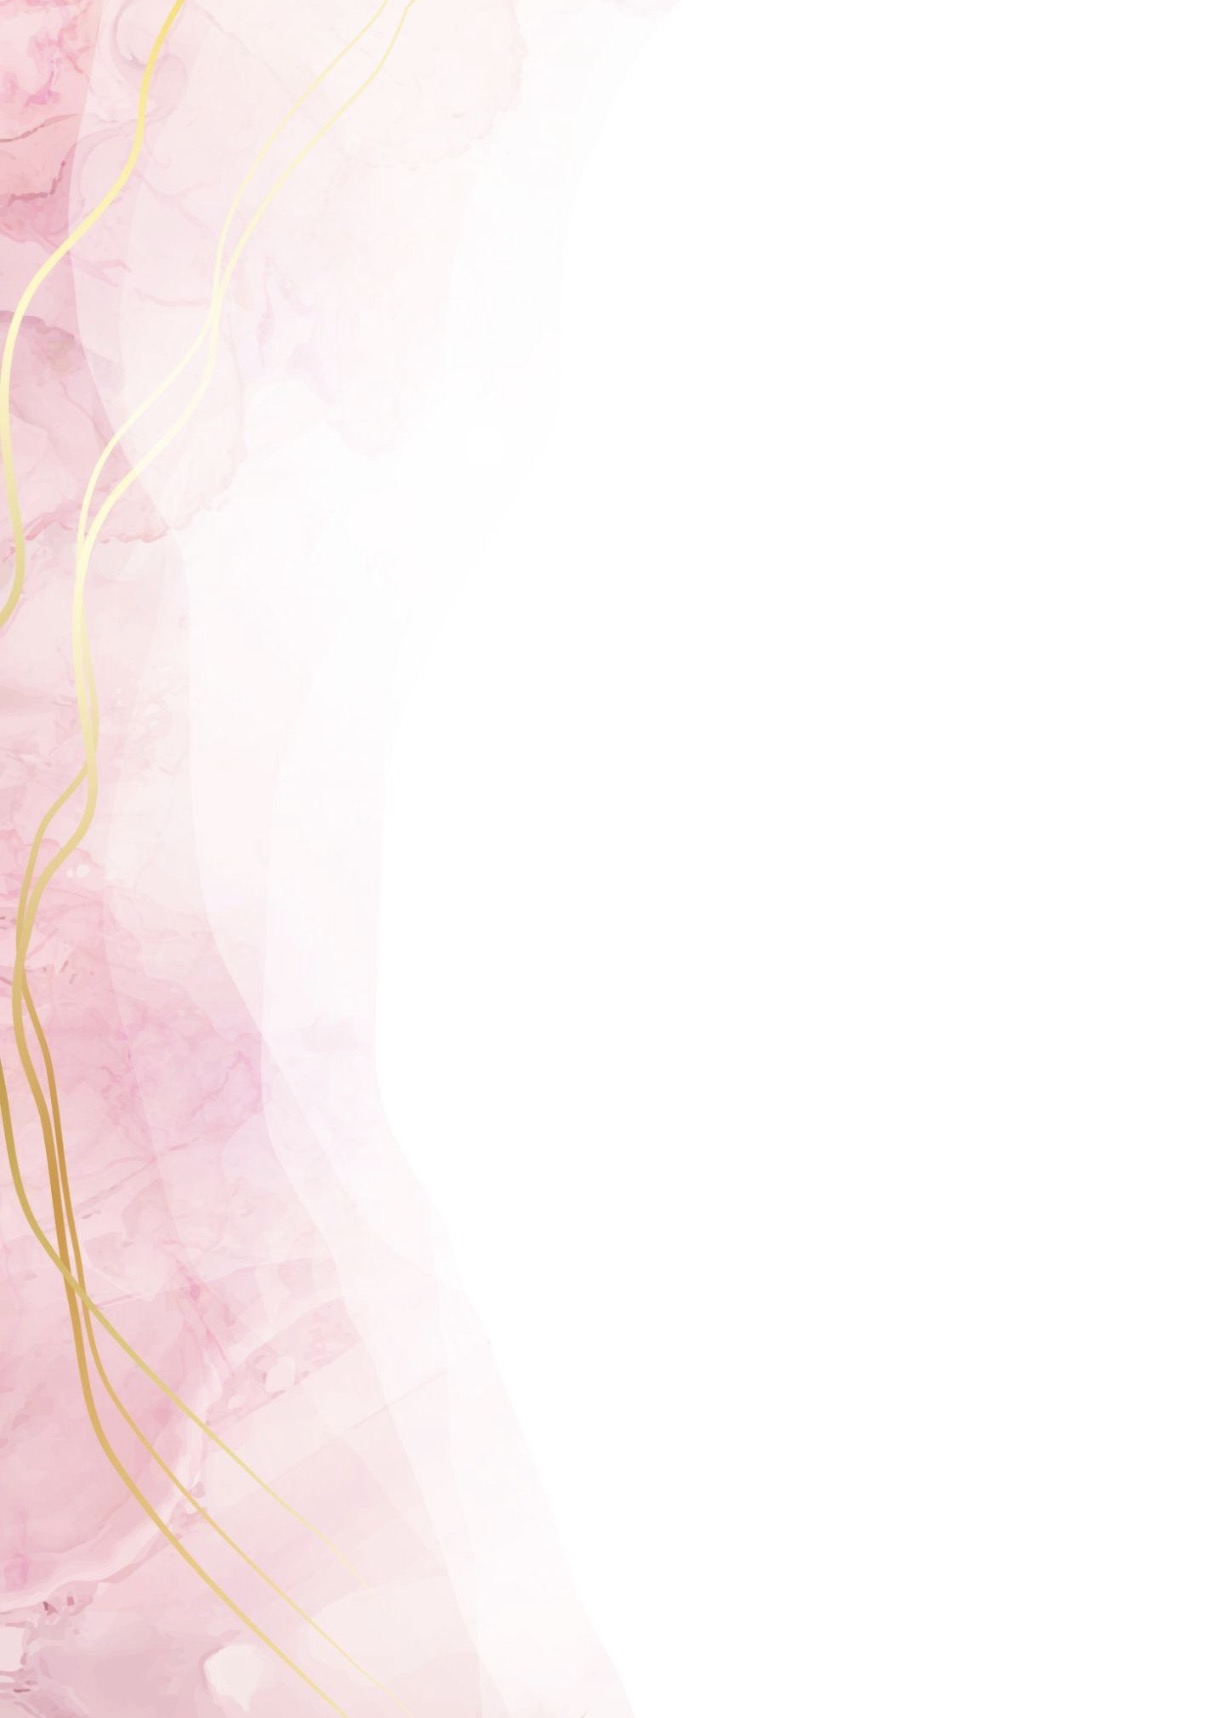
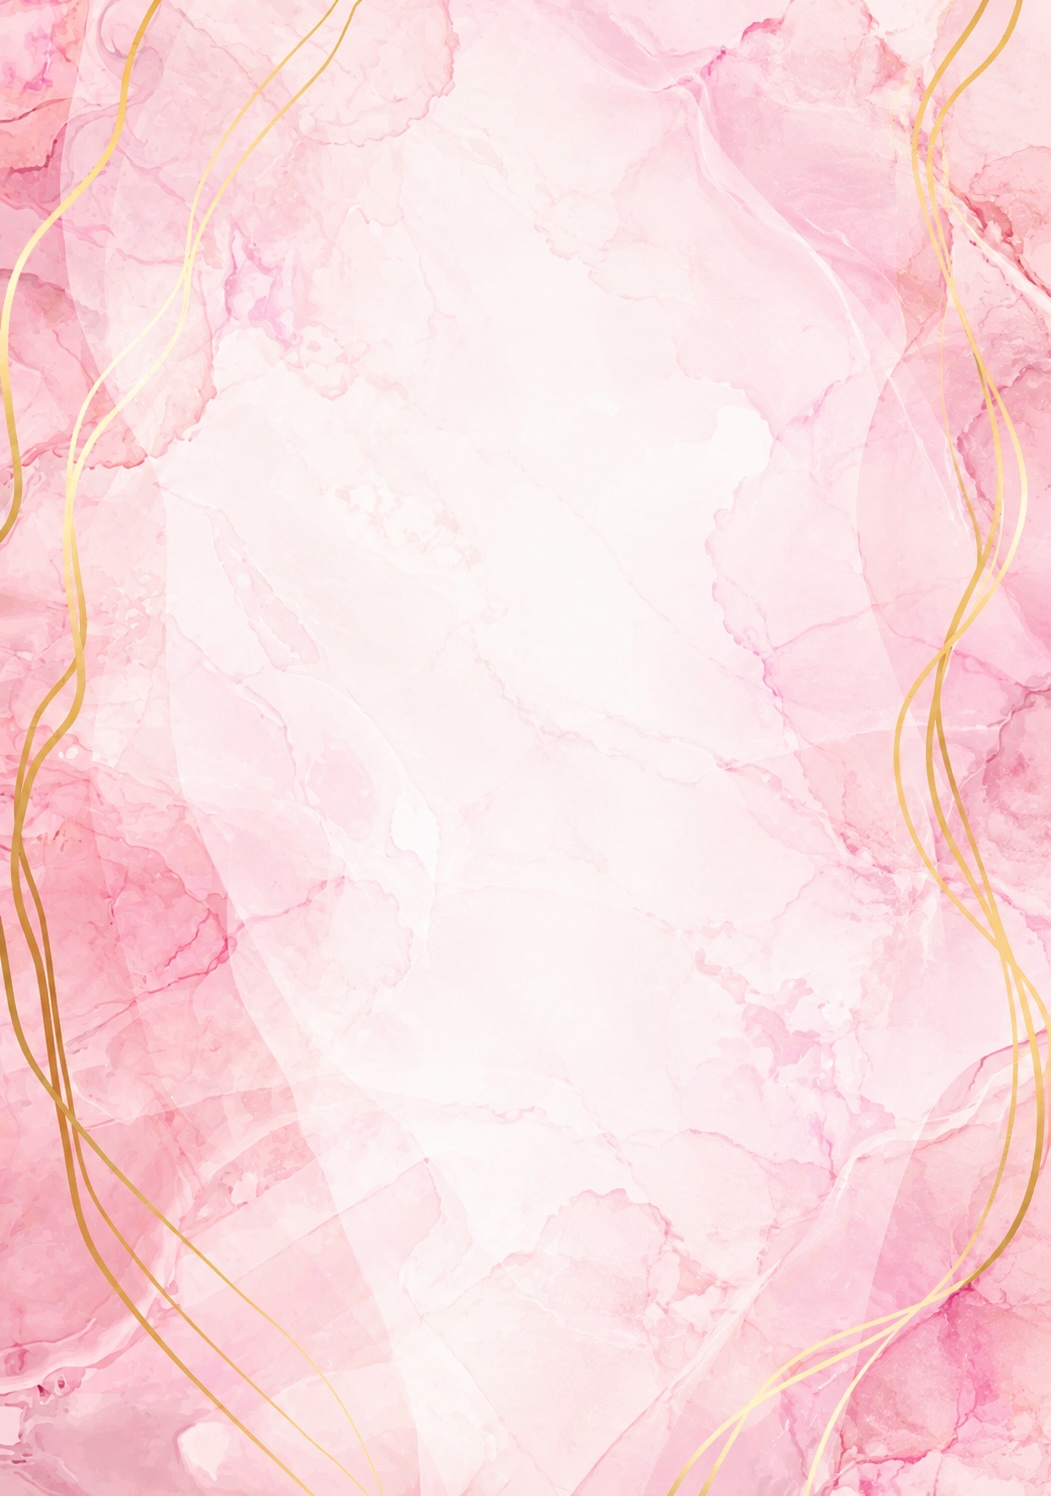
Hero: remove gold niche frame/pillars/floor for natural one-flow layout; dominant pink-gold marble background (Image789.jpg)

diff --git a/app/components/HeroSection.tsx b/app/components/HeroSection.tsx
@@ -2,25 +2,6 @@
 
 import { motion } from "framer-motion";
 
-/* Row of warm recessed-light dots, like the reference ceiling spots */
-function SpotDots({ delay = 0 }: { delay?: number }) {
-  return (
-    <div className="flex justify-around px-3 pt-3 pb-1 relative" style={{ zIndex: 3 }}>
-      {Array.from({ length: 7 }).map((_, i) => (
-        <motion.span
-          key={i}
-          animate={{ opacity: [0.45, 1, 0.45] }}
-          transition={{ repeat: Infinity, duration: 2.6, delay: delay + i * 0.28, ease: "easeInOut" }}
-          style={{
-            width: 7, height: 7, borderRadius: "50%",
-            background: "radial-gradient(circle at 50% 40%, #FFF7D6, #FAC775 60%, #E7A750)",
-            boxShadow: "0 0 10px 4px rgba(245,216,118,0.85)",
-          }}
-        />
-      ))}
-    </div>
-  );
-}
 
 export default function HeroSection() {
   return (
@@ -29,43 +10,27 @@ export default function HeroSection() {
       className="relative min-h-screen flex flex-col items-center justify-center overflow-hidden px-4 py-14"
       style={{ background: "transparent" }}
     >
-      {/* ── Fluted gold side pillars with capitals & bases ───────────────── */}
-      {(["left", "right"] as const).map((side) => (
-        <div key={side} className="absolute top-0 bottom-0 pointer-events-none"
-          style={{ [side]: 0, width: 26 } as React.CSSProperties}>
-          <div className="lux-pillar-cap absolute top-0 left-0 right-0" style={{ height: 26 }} />
-          <div className="lux-pillar absolute left-0 right-0" style={{ top: 26, bottom: 26 }} />
-          <div className="lux-pillar-cap absolute bottom-0 left-0 right-0" style={{ height: 26 }} />
-        </div>
-      ))}
-
       <div className="relative z-10 w-full max-w-md mx-auto flex flex-col gap-0 px-2">
 
-        {/* ── TOP NICHE — illuminated marble with Telugu blessings + scene ── */}
+        {/* ── TOP — Telugu blessings + wedding scene (frameless) ───────────── */}
         <motion.div
           initial={{ opacity: 0, y: -18 }} animate={{ opacity: 1, y: 0 }} transition={{ duration: 0.9 }}
-          className="lux-niche"
+          className="relative"
         >
-          <div className="lux-niche-inner lux-lights marble-surface">
-            <SpotDots />
-
-            {/* Telugu blessings */}
-            <div className="flex justify-between px-4 mb-1 relative" style={{ zIndex: 3 }}>
-              {["శ్రీరస్తు", "శుభమస్తు", "అవిఘ్నమస్తు"].map((b) => (
-                <span key={b} style={{
-                  fontFamily: "'Cinzel',serif", fontWeight: 600,
-                  fontSize: "clamp(0.55rem,1.8vw,0.72rem)", color: "#7A5A10",
-                  letterSpacing: "0.03em", textShadow: "0 1px 2px rgba(255,245,200,0.7)",
-                }}>{b}</span>
-              ))}
-            </div>
-
-            {/* Wedding family scene */}
-            <div className="relative" style={{ zIndex: 2 }}>
-              <img src="/wedding-family-color.jpg" alt="Wedding ceremony scene"
-                style={{ width: "100%", height: "auto", display: "block" }} />
-            </div>
+          {/* Telugu blessings */}
+          <div className="flex justify-between px-4 mb-2 relative" style={{ zIndex: 3 }}>
+            {["శ్రీరస్తు", "శుభమస్తు", "అవిఘ్నమస్తు"].map((b) => (
+              <span key={b} style={{
+                fontFamily: "'Cinzel',serif", fontWeight: 600,
+                fontSize: "clamp(0.55rem,1.8vw,0.72rem)", color: "#7A5A10",
+                letterSpacing: "0.03em", textShadow: "0 1px 2px rgba(255,245,200,0.7)",
+              }}>{b}</span>
+            ))}
           </div>
+
+          {/* Wedding family scene */}
+          <img src="/wedding-family-color.jpg" alt="Wedding ceremony scene"
+            style={{ width: "100%", height: "auto", display: "block" }} />
         </motion.div>
 
         {/* ── MIDDLE — name card (flush with photo above) ──────────────────── */}
@@ -100,11 +65,6 @@ export default function HeroSection() {
           </div>
         </motion.div>
 
-        {/* ── Polished marble floor with reflection ────────────────────────── */}
-        <motion.div
-          initial={{ opacity: 0 }} animate={{ opacity: 1 }} transition={{ duration: 1, delay: 0.5 }}
-          className="lux-floor" style={{ borderRadius: 3, marginTop: "-0.25rem" }}
-        />
       </div>
     </section>
   );

diff --git a/app/globals.css b/app/globals.css
@@ -77,7 +77,7 @@ body::before {
 body::after {
   content: "";
   position: fixed; inset: 0; z-index: -1;
-  background: linear-gradient(180deg, rgba(255,252,250,0.0) 0%, rgba(255,250,248,0.15) 100%);
+  background: linear-gradient(180deg, rgba(255,252,250,0.0) 0%, rgba(255,250,248,0.04) 100%);
   pointer-events: none;
 }
 
